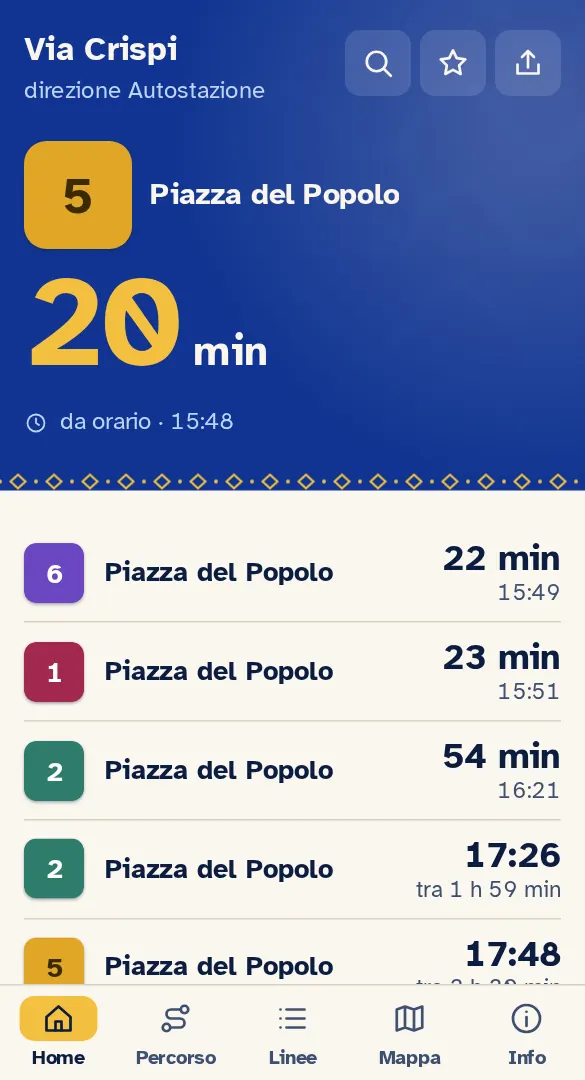
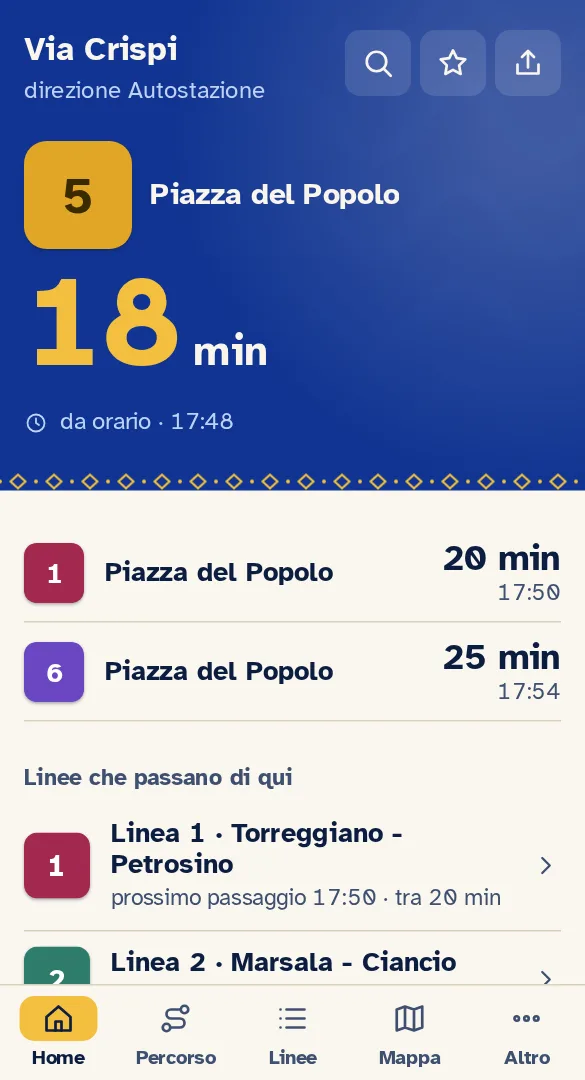
Guida: screenshot rifatti con la nuova barra e testi allineati; etichetta linea senza numero

diff --git a/js/i18n.js b/js/i18n.js
@@ -154,7 +154,7 @@ const IT = {
       'Ingrandendo compaiono le fermate: tocca un puntino per aprirla.',
       'I piccoli bus sono i mezzi in servizio. Toccane uno per seguirlo lungo il percorso.',
       'Il pulsante «Legenda» in basso spiega i simboli.',
-      'Sul bordo destro ci sono i comandi: casetta (mostra tutta la rete), «+» e «−» (zoom), bussola (rimette il nord in alto), mirino (la tua posizione), riquadro (schermo intero). Accanto c’è il cursore dello zoom.',
+      'Sul bordo destro ci sono i comandi: casetta (mostra tutta la rete), bussola (rimette il nord in alto), mirino (la tua posizione), riquadro (schermo intero). Accanto c’è il cursore dello zoom (puoi anche pizzicare lo schermo).',
       'Le fonti dei dati della mappa si aprono toccando la piccola «i» in basso a destra.',
     ], 'La linea di un bus è stimata dal suo percorso: può non essere esatta.', [['mappa', 'La mappa con i percorsi delle linee e i bus in servizio']]],
     ['map3d', 'map', 'Come vedere la mappa in 3D', 'Il pulsante «3D» inclina la mappa e mostra gli edifici in rilievo e i bus come piccoli mezzi in tre dimensioni.', [
@@ -167,9 +167,9 @@ const IT = {
     ['extra', 'sliders', 'Altre cose utili', '', [
       '<b>Senza internet.</b> Gli orari restano salvati nel telefono: l’app funziona anche offline (la mappa e le posizioni dei bus no).',
       '<b>Installarla.</b> Dal menu del browser scegli «Aggiungi a schermata Home»: l’app si apre come tutte le altre.',
-      '<b>Lingua e aspetto.</b> In «Info» puoi scegliere italiano o inglese e il tema chiaro o scuro.',
+      '<b>Lingua e aspetto.</b> In «Altro» → «Informazioni» puoi scegliere italiano o inglese e il tema chiaro o scuro.',
       '<b>Orari scaduti.</b> Se vedi un avviso sugli orari, sono quelli ufficiali del Comune e potrebbero non essere aggiornati.',
-      '<b>Errori.</b> Un orario o una fermata sbagliati? In «Info» → «Segnala un errore» trovi come scrivere al Comune.',
+      '<b>Errori.</b> Un orario o una fermata sbagliati? In «Altro» → «Informazioni» → «Segnala un errore» trovi come scrivere al Comune.',
     ], '', []],
     ['trouble', 'flag', 'Se qualcosa non va', '', [
       '<b>«Nessun collegamento trovato».</b> Non c’è un percorso con al massimo un cambio. Prova con un’altra fermata vicina o un altro orario.',

diff --git a/js/app.js b/js/app.js
@@ -176,7 +176,7 @@ function stopScreen(si, { home = false, origin = null } = {}) {
   const hereSub = (r) => { const it = nextByRoute.get(r); return it ? `${t('nextPass')} ${formatClock(it.secs)} · ${relText(it)}` : t('noMoreLine'); };
   const hereHtml = here.length ? `<section class="block"><h2>${esc(t('linesHere'))}</h2><ul class="plain">${here.map((r) => `<li><a class="row" href="#/linea/${esc(state.data.routes[r].id)}/fermata/${esc(state.data.stops[si].id)}">
   ${tileSvg(state.data.routes[r], 44)}
-  <span class="row-main"><span class="row-title">${esc(t('line'))} ${esc(state.data.routes[r].short)} · ${esc(state.data.routes[r].long)}</span><span class="row-sub">${esc(hereSub(r))}</span></span>
+  <span class="row-main"><span class="row-title">${state.data.routes[r].short ? `${esc(t('line'))} ${esc(state.data.routes[r].short)} · ` : ''}${esc(state.data.routes[r].long)}</span><span class="row-sub">${esc(hereSub(r))}</span></span>
   <span class="chev">${icon('chevron', 20)}</span></a></li>`).join('')}</ul></section>` : '';
 
   return `${banners(now)}

diff --git a/sw.js b/sw.js
@@ -2,7 +2,7 @@
 // - Codice (html/js/css): prima la rete (con timeout), poi la cache: online si ha sempre una versione coerente.
 // - Dati, font, icone: dalla cache, aggiornati in background.
 // - MapLibre dalla CDN: cache al primo uso. Feed RT e tile della mappa non vengono mai messi in cache da qui.
-const VERSION = 'v49';
+const VERSION = 'v51';
 const CACHE = `marsala-tpl-${VERSION}`;
 const PRECACHE = [
   './', 'index.html', 'manifest.webmanifest', 'css/app.css',
